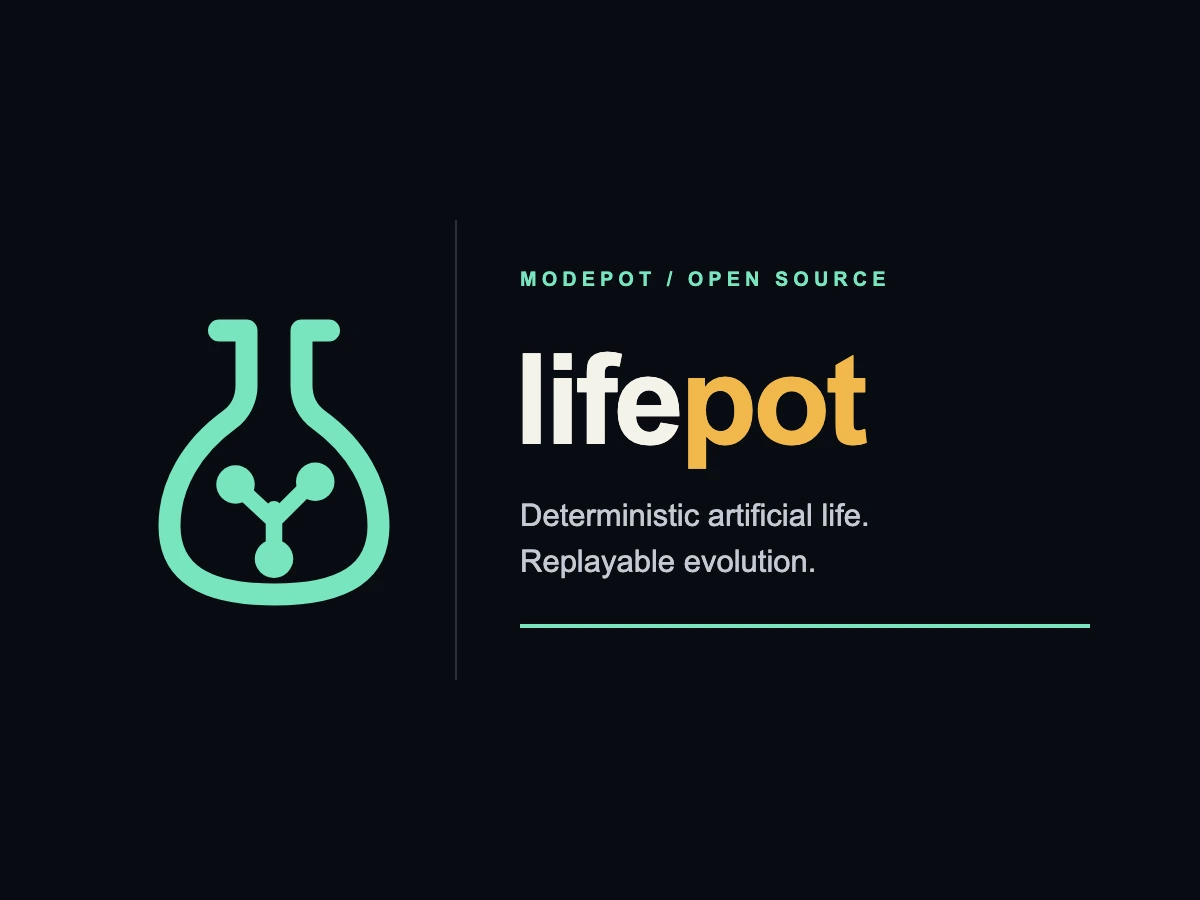
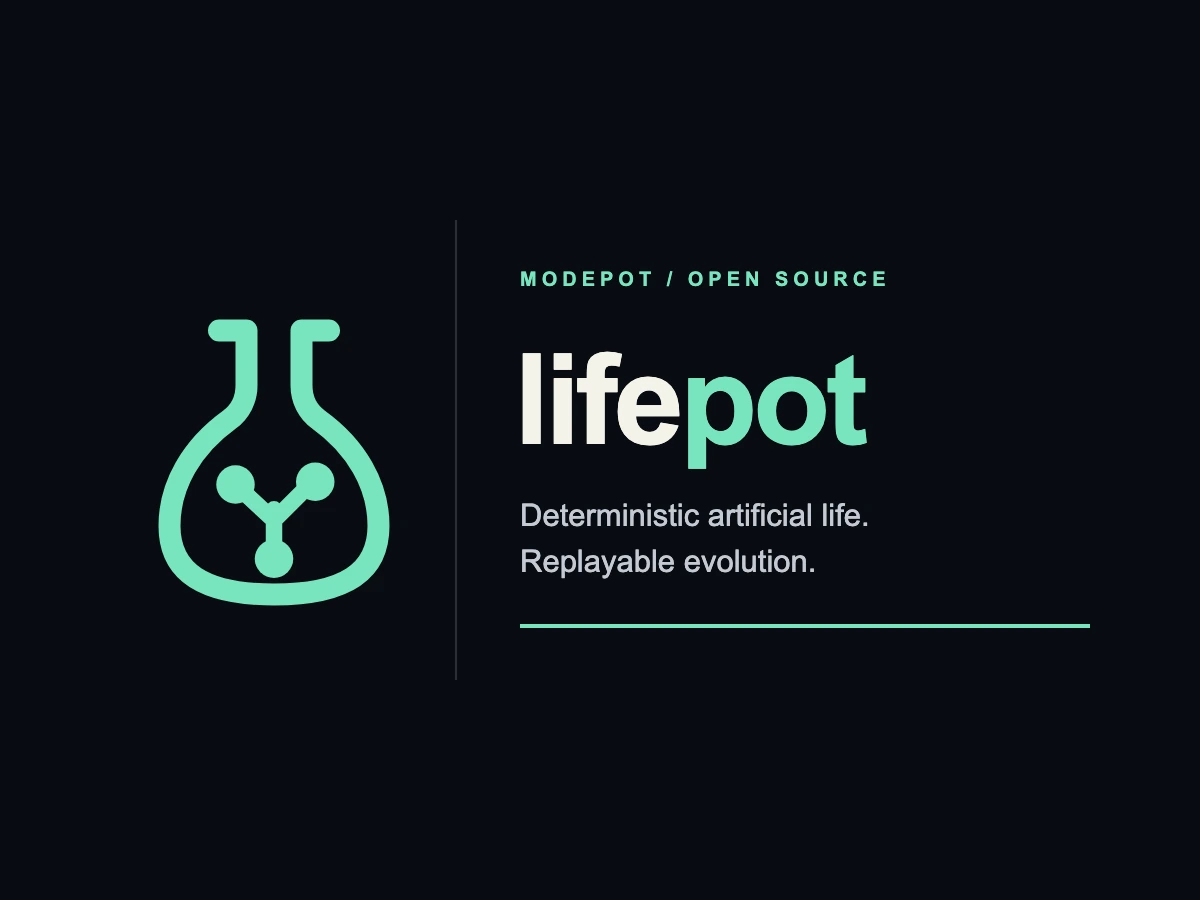
fix: match LifePot wordmark suffix to its mint flask

Changed region(s): [[0.555, 0.4044, 0.74, 0.5289]]

diff --git a/e2e/wordmark-brand.spec.ts b/e2e/wordmark-brand.spec.ts
@@ -1,0 +1,2 @@
+import {test,expect} from '@playwright/test';
+for(const width of [1280,390])for(const theme of ['light','dark'])test(`flask-matched LifePot wordmark ${theme} ${width}`,async({page})=>{await page.setViewportSize({width,height:900});await page.goto('/');await page.getByRole('combobox',{name:'Color theme'}).selectOption(theme);await expect(page.locator('.family-wordmark-pot')).toHaveCSS('color',theme==='dark'?'rgb(119, 229, 189)':'rgb(22, 99, 75)');await expect(page.getByRole('link',{name:'LifePot home'})).toHaveText('LifePot');const count=await page.evaluate(async()=>{const im=new Image();im.src='/lifepot-lockup.png';await im.decode();const c=document.createElement('canvas');c.width=im.naturalWidth;c.height=im.naturalHeight;const ctx=c.getContext('2d')!;ctx.drawImage(im,0,0);const{data}=ctx.getImageData(0,0,c.width,c.height);let n=0;for(let y=320;y<480;y++)for(let x=688;x<875;x++){const k=(y*c.width+x)*4;if(Math.abs(data[k]-119)<10&&Math.abs(data[k+1]-229)<10&&Math.abs(data[k+2]-189)<10)n++;}return n});expect(count).toBeGreaterThan(1000);expect(await page.evaluate(()=>document.documentElement.scrollWidth<=innerWidth)).toBe(true);});

diff --git a/src/app/layout.tsx b/src/app/layout.tsx
@@ -19,13 +19,13 @@ export const metadata: Metadata = {
     siteName: "LifePot",
     title,
     description,
-    images: [{ url: "/lifepot-lockup.png", width: 1200, height: 900, alt: "LifePot: bounded artificial life and replayable evolution" }],
+    images: [{ url: "/lifepot-lockup.png?v=wordmark-accent-1", width: 1200, height: 900, alt: "LifePot: bounded artificial life and replayable evolution" }],
   },
   twitter: {
     card: "summary_large_image",
     title,
     description,
-    images: [{ url: "/lifepot-lockup.png", width: 1200, height: 900, alt: "LifePot: bounded artificial life and replayable evolution" }],
+    images: [{ url: "/lifepot-lockup.png?v=wordmark-accent-1", width: 1200, height: 900, alt: "LifePot: bounded artificial life and replayable evolution" }],
   },
   robots: { index: true, follow: true, googleBot: { index: true, follow: true, "max-image-preview": "large", "max-snippet": -1 } },
   icons: { icon: "/lifepot-mark.svg" },

diff --git a/src/app/globals.css b/src/app/globals.css
@@ -684,6 +684,8 @@ html[data-theme="dark"] .primary-button, html[data-theme="dark"] .question-foote
 @media(max-width: 600px) { .run-results { padding: 16px; } .world-preview-species { grid-template-columns: 1fr; } }
 
 /* Shared LifePot shell navigation; compact layout keeps the family group first. */
+.family-product .family-wordmark-pot { color: #16634b; }
+:root[data-theme="dark"] .family-product .family-wordmark-pot { color: #77e5bd; }
 .family-header { position: fixed; z-index: 20; inset: 0 0 auto; height: 64px; display: flex; align-items: center; gap: 12px; padding: 0 max(16px, calc((100vw - 1200px) / 2)); border-bottom: 1px solid var(--mp-border); background: var(--mp-raised); color: var(--mp-ink); font: 14px/1.4 var(--mp-font); }
 .family-product { flex: 0 0 auto; color: var(--mp-ink); font-size: 16px; font-weight: 700; text-decoration: none; }
 .family-desktop-resources { display: flex; align-items: center; gap: 2px; margin-left: auto; }

diff --git a/src/components/HomeOverview.test.tsx b/src/components/HomeOverview.test.tsx
@@ -5,7 +5,7 @@ import { HomeOverview } from "./HomeOverview";
 function overview() { const root = document.createElement("div"); root.innerHTML = renderToStaticMarkup(<HomeOverview />); return root; }
 it("keeps canonical artwork in the family hero and creator/family attribution immediately after aligned actions", () => {
   const root = overview();
-  expect(root.querySelector('.overview-hero img[src="/lifepot-lockup.png"]')).not.toBeNull();
+  expect(root.querySelector('.overview-hero img[src="/lifepot-lockup.png?v=wordmark-accent-1"]')).not.toBeNull();
   const actions = root.querySelector(".overview-actions")!;
   expect(actions.querySelector('.overview-primary[href="/play"]')).not.toBeNull();
   expect(actions.querySelector('.overview-secondary[href="/learn"]')).not.toBeNull();

diff --git a/src/components/HomeOverview.tsx b/src/components/HomeOverview.tsx
@@ -20,7 +20,7 @@ export function HomeOverview() {
         </p>
       </div>
       <div className="overview-brand">
-        <img className="overview-lockup" src="/lifepot-lockup.png" width="1200" height="900" alt="LifePot — deterministic artificial life with replayable evolution" />
+        <img className="overview-lockup" src="/lifepot-lockup.png?v=wordmark-accent-1" width="1200" height="900" alt="LifePot — deterministic artificial life with replayable evolution" />
       </div>
     </section>
     <section className="overview-example" aria-labelledby="example-title">

diff --git a/src/components/FamilyHeader.tsx b/src/components/FamilyHeader.tsx
@@ -28,7 +28,7 @@ export function FamilyHeader({ children }: { children?: ReactNode }) {
 
   return <>
     <header className="family-header">
-      <Link className="family-product" href="/" aria-label="LifePot home">LifePot</Link>
+      <Link className="family-product" href="/" aria-label="LifePot home"><span>Life<span className="family-wordmark-pot">Pot</span></span></Link>
       <nav className="family-desktop-resources" aria-label="ModePot family">
         {resources.map(({ label, href }) => <a key={label} href={href}>{label}</a>)}
       </nav>

diff --git a/src/documentation.test.ts b/src/documentation.test.ts
@@ -14,7 +14,7 @@ function localTargets(markdown: string): string[] {
   const markdownLinks = [...markdown.matchAll(/\[[^\]]*\]\(([^)]+)\)/g)].map((match) => match[1]);
   const htmlSources = [...markdown.matchAll(/<(?:img|a)\b[^>]*(?:src|href)="([^"]+)"/g)].map((match) => match[1]);
   return [...markdownLinks, ...htmlSources]
-    .map((target) => target.split("#", 1)[0])
+    .map((target) => target.split(/[?#]/, 1)[0])
     .filter((target) => target && !/^(?:https?:|mailto:)/.test(target));
 }
 

diff --git a/README.md b/README.md
@@ -1,7 +1,7 @@
 # LifePot
 
 <p align="center">
-  <img src="lifepot.png" alt="LifePot — deterministic artificial life with replayable evolution" width="600">
+  <img src="lifepot.png?v=wordmark-accent-1" alt="LifePot — deterministic artificial life with replayable evolution" width="600">
 </p>
 
 <p align="center">Part of <a href="https://modepot.io/">ModePot</a>. &nbsp; <a href="https://lifepot.modepot.io/">Project website</a> &nbsp; <a href="https://tugrul.modepot.io/">Created by Tugrul Guner</a></p>

diff --git a/changelog.d/+flask-matched-wordmark.fixed.md b/changelog.d/+flask-matched-wordmark.fixed.md
@@ -1,0 +1,1 @@
+Match LifePot's wordmark suffix to its mint flask across artwork and readable light/dark site headers.
